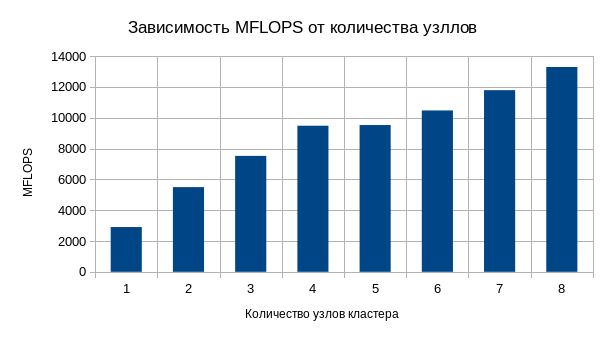
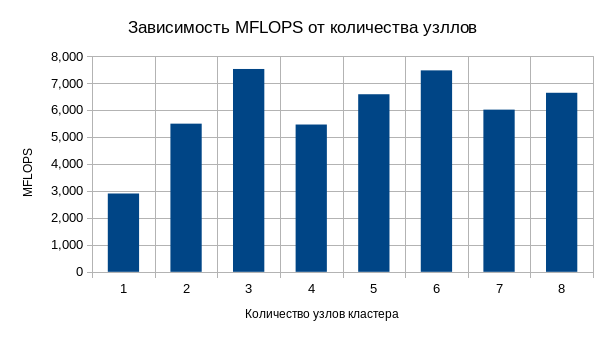
Переделанный отчет

diff --git a/intro.tex b/intro.tex
@@ -14,22 +14,23 @@
 
 \section{Краткий обзор и анализ существующих технологий}
 
+Sierra (ATS-2) — суперкомпьютер, созданный для Ливерморской национальной лаборатории им. Лоуренса. Используется Национальным управлением по ядерной безопасности США (NNSA) в качестве второй системы Advanced Technology System. Используется для решения задач, связанных с управлением ядерным арсеналом США, помогая обеспечить безопасность, надежность и эффективность ядерного оружия Соединенных Штатов. Теоретическая производительность Sierra оценивается в 125 ПФлопс, практически достигнута на тесте производительности LINPACK 94,6 ПФлопс.
+
+Sierra похож по архитектуре на суперкомпьютер Summit, установленный в Национальной лаборатории Ок-Риджа. Система Sierra использует центральные процессоры IBM POWER9 в сочетании с графическими процессорами Nvidia Tesla V100. Узлами в Sierra являются серверы Witherspoon S922LC OpenPOWER с двумя центральными процессорами и четырьмя графическими процессорами на узел. Эти узлы связаны между собой при помощи сети EDR InfiniBand.
+
+Summit (OLCF-4) — суперкомпьютер Ок-Риджской национальной лаборатории вычислительной мощностью 122,3 ПФлопс, продемонстрированной на тесте HPL; являлся самым высокопроизводительным компьютером в период с июня 2018 года по июнь 2020 года в открытом рейтинге суперкомпьютеров Top500.
+
+Контракт на \$325 млн Министерства энергетики США на построение суперкомпьютера в 2014 году получили IBM (серверные узлы), Mellanox (межсоединение) и Nvidia (графические ускорители). Система введена в эксплуатацию в июне 2018 года, заменив суперкомпьютер Titan (OLCF-3).
+
+Комплекс занимает площадь около 520 м² и состоит из 4608 серверных узлов IBM Power Systems AC922, в общей сложности суперкомпьютер оснащён 9216 22-ядерными процессорами IBM POWER9 и 27 648 графическими процессорами NVIDIA Tesla V100. Каждый узел содержит более 500 ГБ когерентной памяти (High Bandwidth Memory и DDR4 SDRAM), которая адресуется всеми CPU и GPU, плюс 800 ГБ энергонезависимой памяти, которая может использоваться как пакетный буфер или дополнительная память. Процессоры и видеокарты подключаются с использованием шины NVLink, что позволяет использовать гетерогенную вычислительную модель.
+
+В подсистеме охлаждения циркулирует 15 150 литров очищенной воды; потребляемая мощность системы в целом — 15 МВт (что сравнивается с электропотреблением 8100 среднестатистических жилых домов на одно семейство в США). 
+
 22 июня 2020 года опубликован 55-й выпуск рейтинга топ-500 самых высокопроизводительных систем мира. В списке суперкомпьютеров мира произошла смена лидера. Вместо американского Summit (IBM) на первом месте теперь японский кластер Fugaku на процессорах ARM A64FX 48C 2.2 GHz. Заявленная пиковая производительность Fugaku составляет 513.8 петафлопс, что в 2,5 раза больше, чем у суперкомпьютера Summit на IBM Power9.
 
-Суперкомпьютер Fugaku был спроектирован и собран в японском институте физико-химических исследований RIKEN. Его разработка была инициирована Министерством образования, культуры, спорта, науки и технологий Японии в 2014 году. Инженерам и специалистам по высокопроизводительным системам была поставлена цель — создать флагманский суперкомпьютер следующего поколения (эксафлопсный суперкомпьютер). Его официальный запуск в промышленную эксплуатацию будет в 2021 году, к этому времени Fugaku будет еще модернизирован.
-
-В настоящее время специалисты института RIKEN занимаются усовершенствованием и доработкой систем и элементов Fugaku.
+Суперкомпьютер Fugaku был спроектирован и собран в японском институте физико-химических исследований RIKEN. Его разработка была инициирована Министерством образования, культуры, спорта, науки и технологий Японии в 2014 году. Инженерам и специалистам по высокопроизводительным системам была поставлена цель — создать флагманский суперкомпьютер следующего поколения (эксафлопсный суперкомпьютер).
 
 Суперкомпьютера Fugaku состоит из 158 976 узлов на базе SoC Fujitsu A64FX (в каждом из них на борту 48-ядерный CPU Armv8.2-A SVE (512 bit SIMD) с тактовой частотой 2.2 ГГц). В сумме кластер Fugaku насчитывает более 7 млн процессорных ядер, около 5 ПБ ОЗУ и 150 ПБ общего хранилища на базе ФС Lustre. В качестве операционной системы в Fugaku используется Red Hat Enterprise Linux. 
 
-SoC Fujitsu A64FX уникален тем, что он является первым процессором, в котором объединена поддержка памяти HBM2 и векторных расширений архитектуры Arm (Scalable Vector Extensions или SVE). Использование HBM2 обеспечивает A64FX теоретическую пропускную способность памяти более 1 ТБ/с, а поддержка Arm SVE повышает производительность в задачах искусственного интеллекта и аналитики. Японские инженеры уже несколько лет прорабатывают решения для применения этих особенности A64FX как для исследований в области ядерной физики так и в других отраслях науки и промышленности, использую преимущества систем на базе Arm — высокая степень распараллеливания, низкое энергопотребление и высокая надежность.
+SoC Fujitsu A64FX уникален тем, что он является первым процессором, в котором объединена поддержка памяти HBM2 и векторных расширений архитектуры ARM (Scalable Vector Extensions или SVE). Использование HBM2 обеспечивает A64FX теоретическую пропускную способность памяти более 1 ТБ/с, а поддержка Arm SVE повышает производительность в задачах искусственного интеллекта и аналитики. Японские инженеры уже несколько лет прорабатывают решения для применения этих особенности A64FX как для исследований в области ядерной физики так и в других отраслях науки и промышленности, использую преимущества систем на базе Arm — высокая степень распараллеливания, низкое энергопотребление и высокая надежность.
 
-Кстати, у проекта Fujitsu A64FX есть свой открытый репозиторий в GitHub, где размещена документация и примеры для разработчиков.
-
-Рейтинг топ-500 суперкомпьютеров мира составляется с 1993 года два раза в год (в июне и ноябре) специалистами и учеными из США и Германии. Минимальный порог для попадания в него в этом году достиг 1,702 петафлопс. В новой версии рейтинга топ-500 суперкомпьютеров мира Китаю принадлежат 226 систем, 114 относятся к США и 29 расположены в Японии.
-
-Количество российских суперкомпьютеров в рейтинге топ-500 самых высокопроизводительных систем мира уменьшилось. Теперь там только две отечественные высокопроизводительные системы — на 36 месте SberCloud (пиковая производительность 8,789 петафлопс) и на 131 месте Lomonosov 2 (пиковая производительность 4,947 петафлопс). В этом году суперкомпьютер ФГБУ ГВЦ Росгидромета (пиковая производительность 1,3 петафлопс) выбыл из нового списка топ-500 самых высокопроизводительных систем мира.
-
-Ранее в конце марта 2020 года был обновлен рейтинг 50 самых производительных суперкомпьютеров СНГ (редакция №32 от 31.03.2020), в котором достаточно долгое время не появляются новые высокопроизводительные системы, исключение — суперкомпьютер Christofari, разработанный облачной платформой «Сбербанка» SberCloud. Все 50 суперкомпьютеров СНГ в качестве основных процессоров используют чипы Intel и AMD, также среди них 28 гибридных систем, использующих для вычислений ускорители.
-
-На данный момент суперкомпьютеров на базе отечественной архитектуры «Эльбрус» в списке топ-50 суперкомпьютеров СНГ нет, хотя ранее в концерне «Автоматика» госкорпорации Ростех анонсировали появление первого суперкомпьютера на 8-ядерных микропроцессорах «Эльбрус-8С», который предназначен для выполнения высокопроизводительных вычислений, обработки больших объемов данных и решения задач с повышенными требованиями к информационной безопасности.

diff --git a/body.tex b/body.tex
@@ -132,34 +132,28 @@
 
 \subsection{Донастройка кластера}
 
-После успешного запуска всех узлов кластера нужно выполнить его донастройку. Рисунки \ref{postconf/01} -- \ref{postconf/03} демонстрируют этот процесс.
+После успешного запуска всех узлов кластера нужно выполнить его донастройку. Рисунки \ref{postconf/01} -- \ref{postconf/02} демонстрируют этот процесс.
 
 \begin{figure}[H]
 	\centering
 	\includegraphics[width=0.7\linewidth]{3-01}
-	\caption{Успешная загрузка узла}
+	\caption{Определение количества узлов кластера}
 	\label{postconf/01}
 \end{figure}
 
 \begin{figure}[H]
 	\centering
 	\includegraphics[width=0.7\linewidth]{3-02}
-	\caption{Успешная загрузка узла}
+	\caption{Оповещение о готовности кластера}
 	\label{postconf/02}
 \end{figure}
 
-\begin{figure}[H]
-	\centering
-	\includegraphics[width=0.7\linewidth]{3-03}
-	\caption{Успешная загрузка узла}
-	\label{postconf/03}
-\end{figure}
 
 \section{Тест кластера}
-Выполним по 10 тестов для разного количества узлов кластера (1 - 8), чтобы получить усредненные значения. Результаты можно посмотреть в таблицах \ref{res/01} -- \ref{res/08}.
+Выполним по 10 тестов для разного количества вычислителей кластера (1 - 8), чтобы получить усредненные значения. Результаты можно посмотреть в таблицах \ref{res/01} -- \ref{res/08}.
 
 \begin{table}[H]
-	\caption{Результаты для одного узла}
+	\caption{Результаты для одного вычислителя}
 	\centering
 	\begin{tabular}{|c|c|c|}
 		\hline
@@ -182,7 +176,7 @@
 
 
 \begin{table}[H]
-	\caption{Результаты для двух узлов}
+	\caption{Результаты для двух вычислителей}
 	\centering
 	\begin{tabular}{|c|c|c|}
 		\hline
@@ -204,7 +198,7 @@
 
 
 \begin{table}[H]
-	\caption{Результаты для трех узлов}
+	\caption{Результаты для трех вычислителей}
 	\centering
 	\begin{tabular}{|c|c|c|}
 		\hline
@@ -226,110 +220,110 @@
 
 
 \begin{table}[H]
-		\caption{Результаты для четырех узлов}
+		\caption{Результаты для четырех вычислителей}
 	\centering
 	\begin{tabular}{|c|c|c|}
 		\hline
 		\textbf{№ попытки} & \textbf{Время} & \textbf{MFLOPS} \\\hline
-		1 & 0.17 & 10508 \\ \hline
-		2 & 0.18 & 10243 \\ \hline
-		3 & 0.23 & 7966 \\ \hline
-		4 & 0.18 & 10030 \\ \hline
-		5 & 0.22 & 8211 \\ \hline
-		6 & 0.18 & 10135 \\ \hline
-		7 & 0.21 & 8552 \\ \hline
-		8 & 0.21 & 8721 \\ \hline
-		9 & 0.18 & 10153 \\ \hline
-		10 & 0.18 & 10252 \\ \hline
-		\textbf{Среднее} & \textbf{0.19} & \textbf{9477} \\\hline
+		1 & 0.34 & 5365 \\ \hline
+		2 & 0.33 & 5418 \\ \hline
+		3 & 0.31 & 5756 \\ \hline
+		4 & 0.32 & 5705 \\ \hline
+		5 & 0.34 & 5257 \\ \hline
+		6 & 0.33 & 5498 \\ \hline
+		7 & 0.34 & 5343 \\ \hline
+		8 & 0.33 & 5495 \\ \hline
+		9 & 0.34 & 5264 \\ \hline
+		10 & 0.1833 & 5509 \\ \hline
+		\textbf{Среднее} & \textbf{0.33} & \textbf{5461} \\\hline
 	\end{tabular}
 	\label{res/04}
 \end{table}
 
 
 \begin{table}[H]
-	\caption{Результаты для пяти узлов}
+	\caption{Результаты для пяти вычислителей}
 	\centering
 	\begin{tabular}{|c|c|c|}
 		\hline
 		\textbf{№ попытки} & \textbf{Время} & \textbf{MFLOPS} \\\hline
-		1 & 0.18 & 9762 \\ \hline
-		2 & 0.18 & 9887 \\ \hline
-		3 & 0.19 & 9608 \\ \hline
-		4 & 0.19 & 9626 \\ \hline
-		5 & 0.19 & 9307 \\ \hline
-		6 & 0.19 & 9677 \\ \hline
-		7 & 0.19 & 9311 \\ \hline
-		8 & 0.22 & 8126 \\ \hline
-		9 & 0.18 & 10204 \\ \hline
-		10 & 0.19 & 9698 \\ \hline
-		\textbf{Среднее} & \textbf{0.19} & \textbf{9521} \\\hline
+		1 & 0.28 & 6433 \\ \hline
+		2 & 0.29 & 6268 \\ \hline
+		3 & 0.27 & 6700 \\ \hline
+		4 & 0.27 & 6552 \\ \hline
+		5 & 0.27 & 6613 \\ \hline
+		6 & 0.27 & 6550 \\ \hline
+		7 & 0.27 & 6617 \\ \hline
+		8 & 0.26 & 6801 \\ \hline
+		9 & 0.27 & 6672 \\ \hline
+		10 & 0.27 & 6621 \\ \hline
+		\textbf{Среднее} & \textbf{0.27} & \textbf{6583} \\\hline
 	\end{tabular}
 	\label{res/05}
 \end{table}
 
 
 \begin{table}[H]
-	\caption{Результаты для шести узлов}
+	\caption{Результаты для шести вычислителей}
 	\centering
 	\begin{tabular}{|c|c|c|}
 		\hline
 		\textbf{№ попытки} & \textbf{Время} & \textbf{MFLOPS} \\\hline
-		1 & 0.16 & 11064 \\ \hline
-		2 & 0.16 & 11153 \\ \hline
-		3 & 0.19 & 9350 \\ \hline
-		4 & 0.19 & 9322 \\ \hline
-		5 & 0.16 & 11101 \\ \hline
-		6 & 0.16 & 11125 \\ \hline
-		7 & 0.20 & 9197 \\ \hline
-		8 & 0.16 & 11047 \\ \hline
-		9 & 0.16 & 11079 \\ \hline
-		10 & 0.18 & 10251 \\ \hline
-		\textbf{Среднее} & \textbf{0.19} & \textbf{10469} \\\hline
+		1 & 0.22 & 8011 \\ \hline
+		2 & 0.23 & 7666 \\ \hline
+		3 & 0.24 & 7369 \\ \hline
+		4 & 0.24 & 7587 \\ \hline
+		5 & 0.24 & 7625 \\ \hline
+		6 & 0.24 & 7366 \\ \hline
+		7 & 0.26 & 6932 \\ \hline
+		8 & 0.24 & 7450 \\ \hline
+		9 & 0.25 & 7265 \\ \hline
+		10 & 0.24 & 7412 \\ \hline
+		\textbf{Среднее} & \textbf{0.24} & \textbf{7468} \\\hline
 	\end{tabular}
 	\label{res/06}
 \end{table}
 
 
 \begin{table}[H]
-	\caption{Результаты для семи узлов}
+	\caption{Результаты для семи вычислителей}
 	\centering
 	\begin{tabular}{|c|c|c|}
 		\hline
 		\textbf{№ попытки} & \textbf{Время} & \textbf{MFLOPS} \\\hline
-		1 & 0.14 & 12537 \\ \hline
-		2 & 0.14 & 12730 \\ \hline
-		3 & 0.17 & 10530 \\ \hline
-		4 & 0.17 & 10361 \\ \hline
-		5 & 0.14 & 12682 \\ \hline
-		6 & 0.14 & 12430 \\ \hline
-		7 & 0.17 & 10609 \\ \hline
-		8 & 0.17 & 10657 \\ \hline
-		9 & 0.14 & 12693 \\ \hline
-		10 & 0.14 & 12630 \\ \hline
-		\textbf{Среднее} & \textbf{0.15} & \textbf{11786} \\\hline
+		1 & 0.29 & 6210 \\ \hline
+		2 & 0.29 & 6115 \\ \hline
+		3 & 0.29 & 6214 \\ \hline
+		4 & 0.29 & 6272 \\ \hline
+		5 & 0.30 & 5928 \\ \hline
+		6 & 0.28 & 6377 \\ \hline
+		7 & 0.33 & 5482 \\ \hline
+		8 & 0.30 & 6063 \\ \hline
+		9 & 0.35 & 5191 \\ \hline
+		10 & 0.29 & 6281 \\ \hline
+		\textbf{Среднее} & \textbf{0.30} & \textbf{6013} \\\hline
 	\end{tabular}
 	\label{res/07}
 \end{table}
 
 
 \begin{table}[H]
-	\caption{Результаты для восьми узлов}
+	\caption{Результаты для восьми вычислителей}
 	\centering
 	\begin{tabular}{|c|c|c|}
 		\hline
 		\textbf{№ попытки} & \textbf{Время} & \textbf{MFLOPS} \\\hline
-		1 & 0.13 & 13650 \\ \hline
-		2 & 0.13 & 14070 \\ \hline
-		3 & 0.16 & 11504 \\ \hline
-		4 & 0.13 & 13853 \\ \hline
-		5 & 0.13 & 13456 \\ \hline
-		6 & 0.13 & 13820 \\ \hline
-		7 & 0.16 & 11101 \\ \hline
-		8 & 0.13 & 13826 \\ \hline
-		9 & 0.13 & 13799 \\ \hline
-		10 & 0.13 & 13789 \\ \hline
-		\textbf{Среднее} & \textbf{0.14} & \textbf{13290} \\\hline
+		1 & 0.26 & 6914 \\ \hline
+		2 & 0.26 & 7038 \\ \hline
+		3 & 0.27 & 6624 \\ \hline
+		4 & 0.29 & 6302 \\ \hline
+		5 & 0.31 & 5734 \\ \hline
+		6 & 0.26 & 6989 \\ \hline
+		7 & 0.26 & 7043 \\ \hline
+		8 & 0.26 & 7023 \\ \hline
+		9 & 0.26 & 6996 \\ \hline
+		10 & 0.31 & 5716 \\ \hline
+		\textbf{Среднее} & \textbf{0.27} & \textbf{6638} \\\hline
 	\end{tabular}
 	\label{res/08}
 \end{table}
@@ -355,7 +349,9 @@
 
 
 \section{Анализ полученных результатов}
+Исходя из полученных результатов, можно сказать, что с ростом числа вычислителей при недостатке числа узлов количество MFLOPS изменяется циклически. Такое поведение можно объяснить задержками (транспортными и синхронизации) и особенностью вычислительной задачи. Не исключено, что при использовании другой программы будут получены другие результаты.
 
-Если смотреть на графики \ref{plot/01} и \ref{plot/02}, то можно заметить, что с увеличением количества вычислительных узлов в два раза, время и MFLOPS сокращаются/увеличиваются соответственно в два раза только на первом шаге, затем различия становятся все менее значимыми. Это можно объяснить суммой задержек (траспортной и синхронизации) и особенностью тестовой задачи. Вполне вероятно, что другая задача может выдать другие результаты, которые окажутся хуже или лучше полученных.
 
-Анализ таблиц \ref{res/01} -- \ref{res/08} показывается, что с ростом количества узлов выростоет стабильность (или уменьшатся разброс показателей времени и MFLOPS).
+
+
+

diff --git a/outro.tex b/outro.tex
@@ -2,4 +2,4 @@
 
 \section{Вывод}
 
-В ходе выполнения лабораторной работы был развернут вычислительный кластер на базе ОС PelicanHPC GNU Linux. Кластер состоял из 8 вычислительных узлов. Было проведено тестирование кластера с участием разного количества вычислителей. Результаты тестирований отражены в таблицах \ref{res/01} -- \ref{res/08} и на рисунках \ref{plot/01} и \ref{plot/02}.
+В ходе выполнения лабораторной работы был развернут вычислительный кластер на базе ОС PelicanHPC GNU Linux. Кластер состоял из 3 вычислительных узлов. Было проведено тестирование кластера с участием разного количества вычислителей (1 -- 8). Результаты тестирований отражены в таблицах \ref{res/01} -- \ref{res/08} и на рисунках \ref{plot/01} и \ref{plot/02}.
